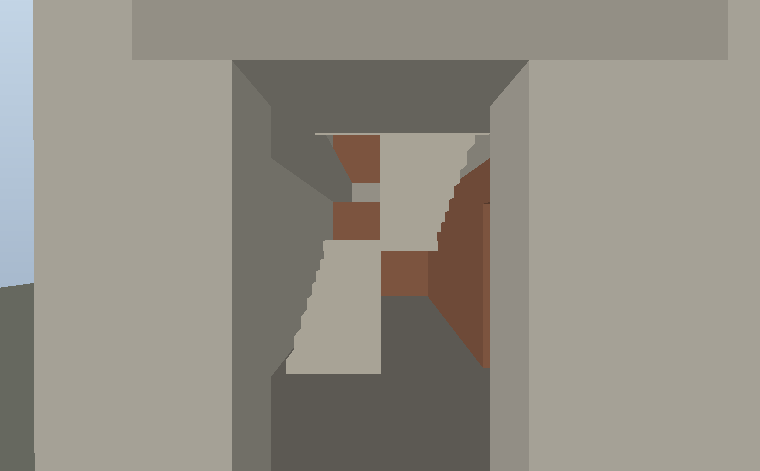
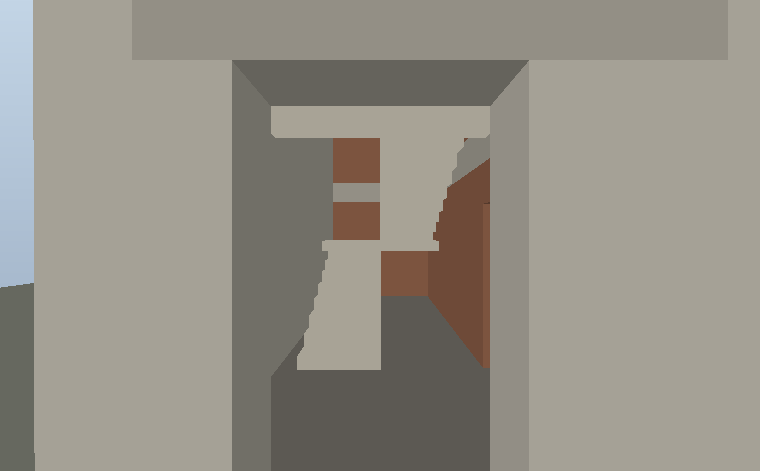
M7.2: «лестница в никуда» — двойное центрирование секций, лестницы во всех подъездах, стены между квартирами, текстуры
По скриншоту игрока (3-секционный дом, в тестах была 1 секция):
- voxelgen: PI() складывал начало секции и смещение от центра дома с шириной
  всего дома — при 3 секциях стены/двери/шахта уезжали за сетку, плиты заливали
  шахту, марш рос в перекрытие. Теперь ОДНО центрирование;
- structure: лестница строится в КАЖДОЙ секции (было — одна на дом),
  в PlacedBuilding добавлены stairs[];
- voxelgen: межсекционная стена на всю глубину и высоту (была одним вокселем
  в середине — квартиры «сообщались» проёмами 5 м, дом был одной комнатой);
- шахта = внутренний объём клетки (без лишнего отступа), INSET лестницы 0.25,
  площадки ровно по внутреннему объёму: марши больше не врезаются в воксели;
- текстуры: убрал ground.jpg (камуфляж) со стен и плит, UV по мировым координатам
  (1 тайл на 2 м) вместо «тайл на кубик 0.5 м»;
- тесты: многосекционные дома (плиты не заливают шахту, просвет над маршем
  2.05 м), ФИЗИЧЕСКИЙ подъём бота в среднем подъезде 3-секционного дома
  (3.05 м), test-apartment видит крайние клетки шахты. test-walk 27 проверок;
- preview-walk: кадры «прихожая → клетка» и «шахта вверх» (12 снимков);
- docs/BUGS.md: раздел 0-d-2.

diff --git a/src/game/voxelgen.ts b/src/game/voxelgen.ts
@@ -94,11 +94,15 @@ export function buildVoxelHouse(opts: VoxelHouseOpts): VoxelHouseModel {
     const s0 = s * secW;                                 // начало секции по i
     // метры плана → индексы сетки. План задан по ОСЕВЫМ линиям стен (они проходят через
     // ЦЕНТРЫ вокселей), поэтому floor, а не round: round «съезжал» на полвокселя.
-    // Смещение секции: центр секции s в мировых координатах = nx*PITCH/2 +
-    // (s - (sections-1)/2) * plan.w. Раньше здесь была ошибка знака, из-за которой
-    // в многосекционном доме вход и окна резались только в ПЕРВОЙ секции.
+    // Перевод координаты плана в индекс сетки. Раньше здесь складывались ДВА
+    // центрирования: `s0` (начало секции в вокселях) и `secOffset` (смещение секции
+    // ОТ ЦЕНТРА ВСЕГО ДОМА). При 1 секции ошибка компенсировалась (s0 = 0), а при
+    // 3 секциях внутренние стены, двери и шахта уезжали на секцию вперёд и вылезали
+    // за сетку: шахта оказывалась за пределами дома, плиты её заливали, и из проёма
+    // в подъезде росла «лестница в никуда» — марши шли в перекрытие. Именно поэтому
+    // тесты (1 секция) были зелёные, а в игре (3 секции) — нет.
     const secOffset = (s - (sections - 1) / 2) * plan.w;
-    const PI = (x: number) => s0 + Math.floor((x + secOffset + (nx * PITCH) / 2) / PITCH);
+    const PI = (x: number) => Math.floor((x + secOffset + (nx * PITCH) / 2) / PITCH);
     const PK = (z: number) => Math.floor((z + (nz * PITCH) / 2) / PITCH);
     // ---- стены по периметру + межсекционная ----
     for (let f = 0; f < floors; f++) {
@@ -109,7 +113,7 @@ export function buildVoxelHouse(opts: VoxelHouseOpts): VoxelHouseModel {
       const j1 = Math.floor(((f + 1) * floorH) / PITCH) - 1;
       for (let j = j0; j <= j1; j++) {
         for (let i = s0; i < s0 + secW; i++) {
-          // фасад/тыл
+          // фасад/тыл — в КАЖДОЙ секции: у каждого подъезда своя дверь и свои окна
           for (const k of [PK(plan.entrance.z), nz - 1]) {
             // проём под окно: 2.05/0.85 м → примерно воксели 2..4 (снизу 0.85 = 1.7 вокс)
             const localJ = j - j0;
@@ -138,8 +142,9 @@ export function buildVoxelHouse(opts: VoxelHouseOpts): VoxelHouseModel {
           add(0, j, k, winRowT && k > kWin0 && k < kWin1 ? 3 : 0, s, 1);
         if (s === sections - 1) for (let k = 1; k < nz - 1; k++)
           add(nx - 1, j, k, winRowT && k > kWin0 && k < kWin1 ? 3 : 0, s, 1);
-        // межсекционная кирпичная стена (не несущая: её можно пробить, дом стоит)
-        if (s > 0) add(s0, j, Math.round(nz / 2), 2, s, 0);
+        // межсекционная СТЕНА НА ВСЮ ГЛУБИНУ: это стена между квартирами, а не
+        // один воксель в середине (через него квартиры «сообщались»).
+        if (s > 0) for (let k = 0; k < nz; k++) add(s0, j, k, 2, s, 0);
       }
       // ---- ВНУТРЕННИЕ СТЕНЫ ПО 2D-ПЛАНУ (plan.ts) ----
       // Раньше дом внутри был пустой коробкой: «между квартирами нет стены, мебель
@@ -177,8 +182,12 @@ export function buildVoxelHouse(opts: VoxelHouseOpts): VoxelHouseModel {
       // ВАЖНО: plan.stairs задан «вплотную к стенам», а стена занимает целый воксель.
       // Поэтому внутренний объём клетки = границы ±1 воксель. Без этого шахта съедала
       // стену между клеткой и прихожей (получался проход шириной 6 м и «нет стены»).
-      const si0p = PI(plan.stairs.x0) + 1, si1p = PI(plan.stairs.x1) - 1;
-      const sk0p = PK(plan.stairs.z0) + 1, sk1p = PK(plan.stairs.z1) - 1;
+      // plan.stairs — уже ВНУТРЕННИЙ объём клетки (между осями стен), и стена занимает
+      // воксель вокруг своей оси. Отступ «±1 воксель» срезал лишнее: крайние клетки
+      // шахты заливались плитой, и марш проходил СКВОЗЬ перекрытие — на скриншоте это
+      // «лестница в никуда». Внутренний объём = PI(x0) .. PI(x1)-1.
+      const si0p = PI(plan.stairs.x0), si1p = PI(plan.stairs.x1) - 1;
+      const sk0p = PK(plan.stairs.z0), sk1p = PK(plan.stairs.z1) - 1;
       for (let i = s0; i < s0 + secW; i++) for (let k = 0; k < nz; k++) {
         if (cells[idx(i, jf, k)] >= 0) continue;
         if (i >= si0p && i <= si1p && k >= sk0p && k <= sk1p) continue;  // шахта
@@ -190,8 +199,8 @@ export function buildVoxelHouse(opts: VoxelHouseOpts): VoxelHouseModel {
     // что между квартирами нет стены. Теперь границы берём из плана (plan.stairs).
     // plan.stairs задан по ВНУТРЕННЕМУ объёму клетки (между стенами), поэтому
     // дополнительных отступов не нужно — иначе шахта съедала стены квартиры.
-    const sIn0 = PI(plan.stairs.x0) + 1, sIn1 = PI(plan.stairs.x1) - 1;
-    const sK0 = PK(plan.stairs.z0) + 1, sK1 = PK(plan.stairs.z1) - 1;
+    const sIn0 = PI(plan.stairs.x0), sIn1 = PI(plan.stairs.x1) - 1;
+    const sK0 = PK(plan.stairs.z0), sK1 = PK(plan.stairs.z1) - 1;
     for (let f = 0; f < floors; f++) {
       const j0 = Math.floor((f * floorH) / PITCH);
       // ВАЖНО: на первом этаже оставляем слой j = 0 — это ПОЛ подъезда. Если начать

diff --git a/src/game/voxelhouse.ts b/src/game/voxelhouse.ts
@@ -212,11 +212,15 @@ export class VoxelHouse {
 
     // Реальные текстуры из public/textures (см. src/render/tex.ts). Если текстура не
     // загрузилась — материал остаётся однотонным, игра не падает.
-    const tBrick = tex('brick'), tStone = tex('stone'), tWood = tex('wood'), tStucco = tex('ground');
+    const tBrick = tex('brick'), tStone = tex('stone'), tWood = tex('wood');
     const generated = blockTexture();      // запасная процедурная кладка
-    // 0 бетон (несущая) — штукатурка, 1 плита — штукатурка, 2 кирпич — кирпич/бут,
-    // 4 дерево, 5 ступени — бетон
-    const MAP: Record<number, THREE.Texture | null> = { 0: tStucco, 1: tStucco, 2: tStone ?? tBrick, 4: tWood, 5: tStucco };
+    // БАГ (виден на скриншоте игрока): на стены и плиты была навешана текстура 'ground' —
+    // это фотография земли с камуфляжными пятнами. Внутри квартиры потолок и стены
+    // выглядели грязно-зелёными разводами. Для бетона берём каменную кладку, а если
+    // её нет — процедурную.
+    // 0 бетон (несущая), 1 плита, 2 кирпич (стена между квартирами), 4 дерево, 5 ступени
+    const tConcrete = tStone ?? tBrick ?? generated;
+    const MAP: Record<number, THREE.Texture | null> = { 0: tConcrete, 1: tConcrete, 2: tBrick ?? tStone, 4: tWood, 5: tConcrete };
     for (const [k, color] of Object.entries(VOXEL_COLOR)) {
       const kk = +k;
       if (kk === 3) {
@@ -278,6 +282,13 @@ export class VoxelHouse {
   private static QUAD = VOXEL_QUADS;
   /** UV-координаты углов грани: (0,0) (1,0) (1,1) (0,1) в порядке quads */
   private static QUAD_UV = [0, 0, 1, 0, 1, 1, 0, 1];
+  /**
+   * UV по МИРОВЫМ координатам грани (а не «полный тайл на кубик»).
+   * Кубик 0.5 м: при UV 0..1 рисунок кирпича повторяется каждые полметра — на стене
+   * это выглядело мелкой рябью (на скриншоте: «камуфляжные» разводы на потолке).
+   * TEX_M — сколько метров стены занимает один тайл текстуры.
+   */
+  private static readonly TEX_M = 2.0;
 
   /** Собирает геометрию чанка: наружные грани живых вокселей, по группам на материал. */
   private ensureChunk(key: string) {
@@ -301,10 +312,15 @@ export class VoxelHouse {
             if (nid >= 0 && this.alive[nid]) continue;          // грань внутри — не нужна
             // UV: каждая грань кубика получает полный тайл текстуры (0..1), иначе карта
             // «растягивается» на весь чанк и выглядит мыльной.
+            // UV считаем по МИРОВЫМ координатам в плоскости грани: соседние кубики
+            // продолжают рисунок, а не повторяют его каждые полметра.
             for (let qi = 0; qi < 4; qi++) {
               const c = VoxelHouse.CORNERS[VoxelHouse.QUAD[f][qi]];
-              a.verts.push(cxp + c[0] * h, cyp + c[1] * h, czp + c[2] * h);
-              a.uvs.push(VoxelHouse.QUAD_UV[qi * 2], VoxelHouse.QUAD_UV[qi * 2 + 1]);
+              const px = cxp + c[0] * h, py = cyp + c[1] * h, pz = czp + c[2] * h;
+              a.verts.push(px, py, pz);
+              // ось X грани (нормаль ±X) → плоскость (Z, Y); ±Y → (X, Z); ±Z → (X, Y)
+              const uv = di !== 0 ? [pz, py] : dj !== 0 ? [px, pz] : [px, py];
+              a.uvs.push(uv[0] / VoxelHouse.TEX_M, uv[1] / VoxelHouse.TEX_M);
             }
             quads++;
           }

diff --git a/src/game/structure.ts b/src/game/structure.ts
@@ -17,7 +17,9 @@ export interface PlacedBuilding {
   center: THREE.Vector3;
   /** габариты (для поиска «в какой дом попали») */
   size: [number, number, number];
-  /** лестница подъезда (проходимая, не воксельная) */
+  /** лестницы всех подъездов (проходимые, не воксельные) — по одной на секцию */
+  stairs: Staircase[];
+  /** лестница первого подъезда (для отладки/тестов) */
   stair: Staircase;
 }
 
@@ -123,24 +125,34 @@ export function spawnVoxelHouse(
   const house = new VoxelHouse(grid, scene, phys);
   if (heightAt) house.setHeightFn(heightAt);
 
-  // ---- настоящая лестница в подъезде (см. staircase.ts) ----
+  // ---- настоящие лестницы во ВСЕХ подъездах (см. staircase.ts) ----
   // Воксельная «змейка» была непроходимой: ступень 0.5 м при autostep 0.4 м.
-  const stair = buildStaircase(model.plan, model.floors, model.floorH, offset);
-  if (rotY !== 0) {
-    stair.mesh.rotation.y = rotY;
-    // физика: те же вершины, повёрнутые вокруг центра дома
-    const q2 = q, v = new THREE.Vector3();
-    for (let i = 0; i < stair.verts.length; i += 3) {
-      v.set(stair.verts[i] - offset.x, stair.verts[i + 1] - offset.y, stair.verts[i + 2] - offset.z).applyQuaternion(q2);
-      stair.verts[i] = v.x + offset.x; stair.verts[i + 1] = v.y + offset.y; stair.verts[i + 2] = v.z + offset.z;
+  // БАГ: лестница строилась одна на весь дом. У 3-секционной хрущёвки три подъезда и
+  // три лестничных клетки, а марши были только в первой; из остальных подъездов наверх
+  // попасть было нельзя.
+  const stairs: Staircase[] = [];
+  for (let s = 0; s < model.sections; s++) {
+    const secCx = (s - (model.sections - 1) / 2) * model.plan.w;
+    const origin = new THREE.Vector3(offset.x + secCx, offset.y, offset.z);
+    const st = buildStaircase(model.plan, model.floors, model.floorH, origin);
+    if (rotY !== 0) {
+      st.mesh.rotation.y = rotY;
+      // физика: те же вершины, повёрнутые вокруг центра дома
+      const v = new THREE.Vector3();
+      for (let i = 0; i < st.verts.length; i += 3) {
+        v.set(st.verts[i] - offset.x, st.verts[i + 1] - offset.y, st.verts[i + 2] - offset.z).applyQuaternion(q);
+        st.verts[i] = v.x + offset.x; st.verts[i + 1] = v.y + offset.y; st.verts[i + 2] = v.z + offset.z;
+      }
     }
+    scene.add(st.mesh);
+    phys.add({
+      kind: 'static',
+      shapes: [{ t: 'trimesh', verts: st.verts, idx: st.idx }],
+      pos: [0, 0, 0], quat: [0, 0, 0, 1], surface: 'concrete',
+    } as never);
+    stairs.push(st);
   }
-  scene.add(stair.mesh);
-  phys.add({
-    kind: 'static',
-    shapes: [{ t: 'trimesh', verts: stair.verts, idx: stair.idx }],
-    pos: [0, 0, 0], quat: [0, 0, 0, 1], surface: 'concrete',
-  } as never);
+  const stair = stairs[0];
 
   furnish(model, scene, offset, rotY);
 
@@ -149,5 +161,5 @@ export function spawnVoxelHouse(
   lamp.position.copy(offset).add(new THREE.Vector3(0, 3.2, model.size[2] / 2 + 2.5).applyQuaternion(q));
   scene.add(lamp);
 
-  return { house, model, stair, center: new THREE.Vector3(offset.x, model.size[1] / 2, offset.z), size: model.size };
+  return { house, model, stairs, stair, center: new THREE.Vector3(offset.x, model.size[1] / 2, offset.z), size: model.size };
 }

diff --git a/src/game/staircase.ts b/src/game/staircase.ts
@@ -40,8 +40,13 @@ export interface Staircase {
   landing: number;
 }
 
-/** Отступ от стен клетки: капсула r = 0.3 м не должна задевать стену на повороте. */
-const INSET = 0.15;
+/**
+ * Отступ от стен клетки. План задаёт стены по ОСЯМ (центры вокселей 0.5 м), и стена
+ * занимает полвокселя (0.25 м) в каждую сторону от оси. INSET = 0.25 ставит марш
+ * ровно в границу внутреннего объёма: раньше было 0.15, и ступени врезались в воксели
+ * стены и перекрытия — на скриншоте марш «протыкал» плиту.
+ */
+const INSET = 0.25;
 const STEP_RISE_MIN = 0.13, STEP_RISE_MAX = 0.2;
 /** Глубина площадок: фасадной (вход) и разворотной — не меньше диаметра капсулы (0.6) + запас */
 const LANDING = 1.2;
@@ -68,7 +73,9 @@ function dims(plan: ApartmentPlan, floorH: number): Dims {
   const mid = (x0 + x1) / 2;
   return {
     steps, rise, tread, x0, x1, zFront, zBack,
-    lx0: s.x0 - 0.25, lx1: s.x1 + 0.25,
+    // Площадки — ровно внутренний объём клетки (plan.stairs). Раньше они выходили на
+    // 0.25 м за границу, то есть ВНУТРЬ вокселя стены: площадка и марш «протыкали» стену.
+    lx0: s.x0, lx1: s.x1,
     laneL: [x0, mid], laneR: [mid, x1],
   };
 }

diff --git a/docs/BUGS.md b/docs/BUGS.md
@@ -65,6 +65,41 @@ Rapier'а** теми же параметрами капсулы, что в `src/
     могла в неё попасть при полностью проходимой комнате. → В `nav.findPath` цель тоже
     ищет ближайшую проходимую клетку (как старт). На этом застревал санузел.
 
+### 0-d-2. По скриншоту игрока: «лестница в никуда»
+
+Пользователь прислал кадр из игры: марш растёт **сквозь перекрытие** посреди квартиры,
+вокруг одна общая комната на весь дом, стены и потолок в грязно-зелёных «камуфляжных»
+разводах. Причины — четыре независимых бага, и все они были НЕ видны тестам, потому что
+тесты собирали дом из **одной секции**, а в игре стоят дома на 3 и 2 секции.
+
+1. **Двойное центрирование секции.** `PI()` в `voxelgen` складывал `s0` (начало секции
+   в вокселях) и `secOffset` (смещение секции от центра всего дома), да ещё прибавлял
+   ширину всего дома. При 1 секции ошибка компенсировалась, при 3 — внутренние стены,
+   двери и шахта уезжали на секцию вперёд и вылезали за сетку: шахта оказывалась ВНЕ дома,
+   плиты её заливали, и из проёма подъезда рос марш в перекрытие.
+2. **Лестница строилась одна на весь дом.** У 3-секционной хрущёвки три подъезда,
+   а марши были только в первом: из среднего и третьего наверх попасть было нельзя.
+   → `structure.ts` строит лестницу в КАЖДОЙ секции (свои меш и тримеш).
+3. **Между квартирами не было стены.** Межсекционная стена ставилась одним вокселем
+   в середине глубины — квартиры «сообщались» проёмами по 5 м, и дом изнутри был одной
+   общей комнатой (на кадре видно всю квартиру насквозь). → стена на всю глубину и высоту.
+4. **Шахта вырезалась на воксель уже и INSET лестницы был 0.15.**
+   `plan.stairs` — это уже внутренний объём между осями стен, а стена занимает воксель
+   вокруг оси. Отступ «±1 воксель» заливал плитой крайние клетки шахты, а `INSET = 0.15`
+   заводил марши и площадки внутрь вокселей стены. → шахта = `PI(x0) … PI(x1)-1`,
+   `INSET = 0.25`, площадки ровно по внутреннему объёму клетки.
+5. **Текстура `ground.jpg` на стенах и плитах.** Это фотография земли с камуфляжными
+   пятнами — отсюда «грязные разводы» на потолке. Плюс UV были «полный тайл на кубик
+   0.5 м», то есть рисунок повторялся каждые полметра. → бетон = `stone`, а UV считаются
+   в мировых координатах (1 тайл на 2 м), так что рисунок продолжается между кубиками.
+
+Что добавлено в тесты, чтобы это не вернулось:
+- `test-walk`: проверка многосекционных домов (`шахта внутри дома, плиты не заливают,
+  двери на месте, просвет над маршем ≥ рост игрока`), и **физический подъём бота
+  в среднем подъезде** 3-секционного дома (`поднялись на 3.05 м`);
+- `test-apartment`: шахта считается по внутреннему объёму (`i >= I(x0) && i < I(x1)`),
+  иначе крайние клетки шахты «не виделись» и плита могла их залить незаметно.
+
 ### Фото-проход (`tools/preview-walk.mjs`, `npm run preview:walk`)
 Бот идёт настоящей капсулой Rapier по маршруту **улица → подъезд → марш → площадка →
 все 7 комнат** и после каждого шага пищит PNG в `tools/_render/walk-01…10-*.png`
